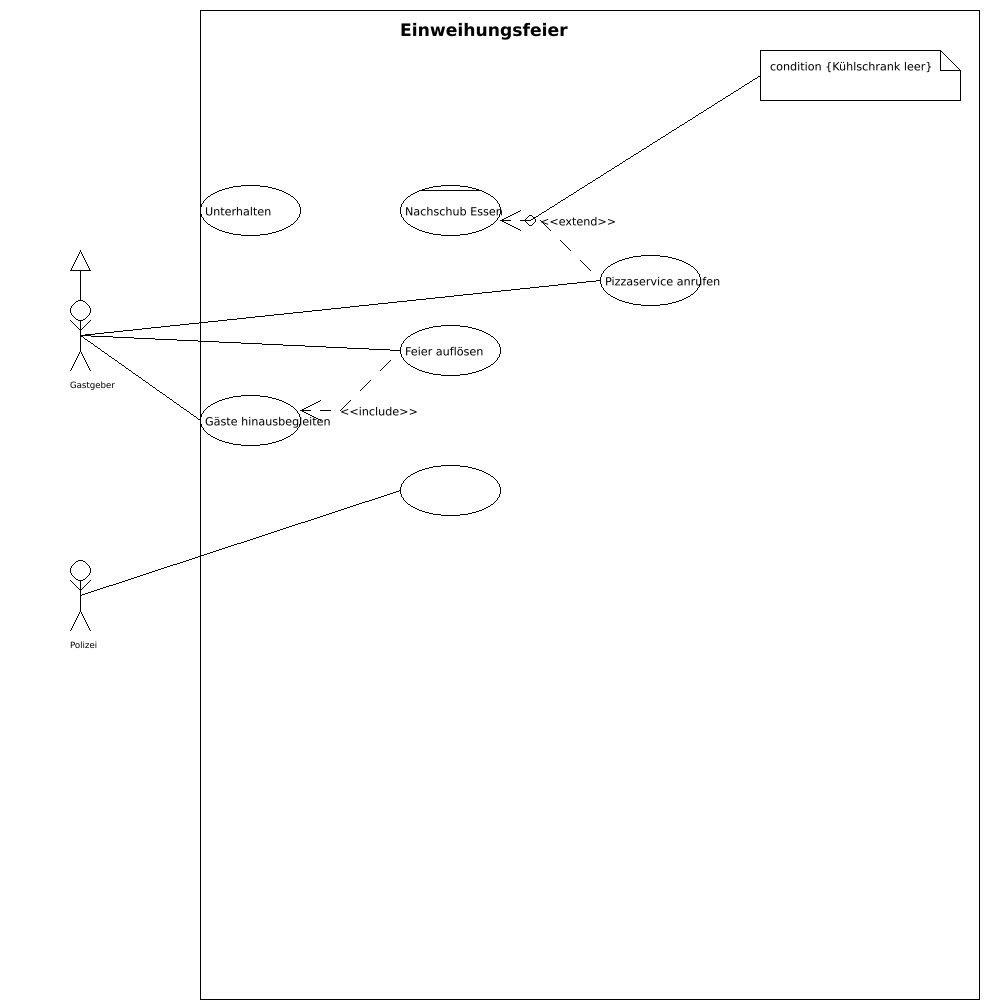
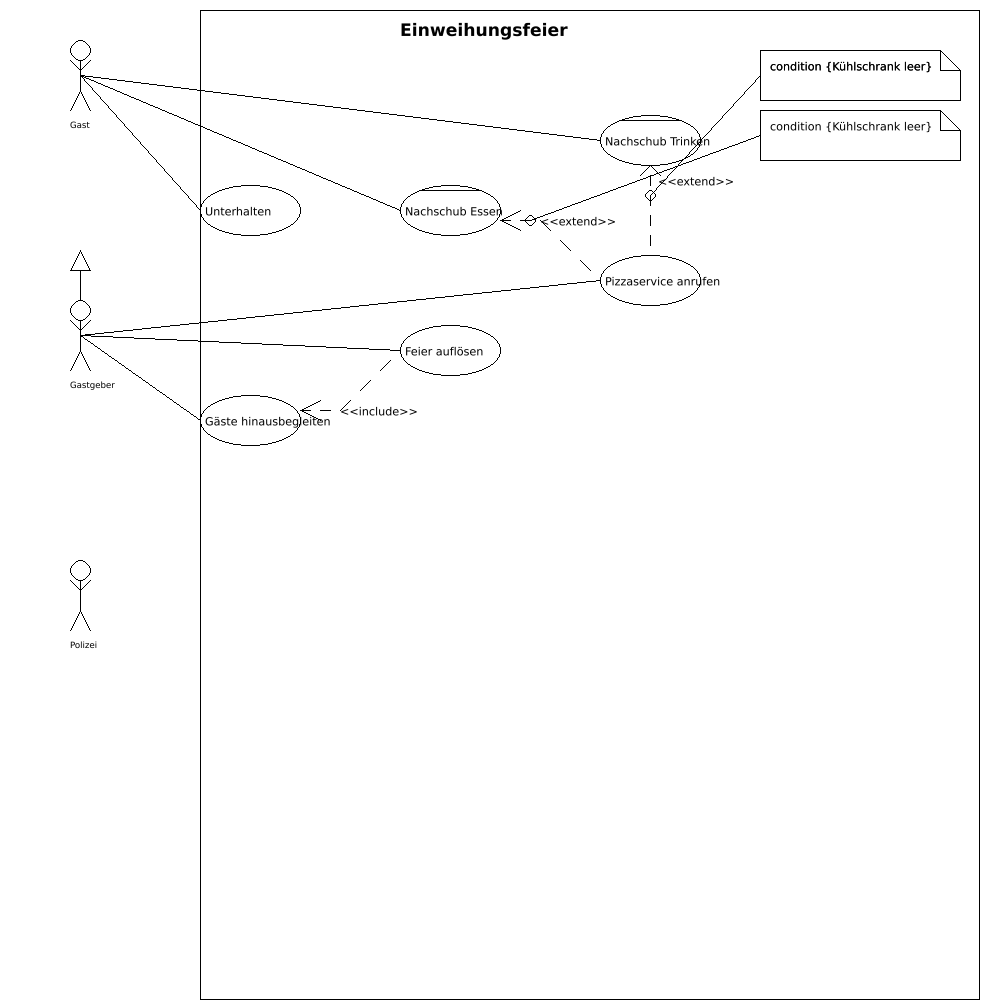
nicht benötigte Beziehungen werden entfernt, Template knopf für Use-Case Diagramm

Changed region(s): [[0.589, 0.124, 0.713, 0.186], [0.775, 0.124, 0.93, 0.155], [0.775, 0.062, 0.93, 0.093]]

diff --git a/src/decoder_usecase.rs b/src/decoder_usecase.rs
@@ -162,9 +162,45 @@ pub fn decode_use_case_diagram(diagram_input: String) -> (Option<UseCaseDiagramm
     if diagram_input_regex.is_match(diagram_input.as_ref()) {
         let use_case_diagram_comp: Vec<String> = diagram_input.split(&";".to_string()).map(|x| x.to_owned()).collect();
 
-        let uc_actors_result = decode_actors(use_case_diagram_comp[1].to_string());
+        let mut uc_actors_result = decode_actors(use_case_diagram_comp[1].to_string());
         let uc_use_cases_result = decode_use_cases(use_case_diagram_comp[2].to_string());
-        let uc_relations_result = decode_use_case_relations(use_case_diagram_comp[3].to_string());
+        let mut uc_relations_result = decode_use_case_relations(use_case_diagram_comp[3].to_string());
+
+        let mut case_id_vec = Vec::new();
+        for use_case in &uc_use_cases_result.0{
+            case_id_vec.push(use_case.id);
+        }
+
+        let mut deletList = Vec::new();
+        for i in 0..uc_actors_result.0.len() {
+            for j in 0..uc_actors_result.0[i].has_use_case.len(){
+                for  k in 0..uc_use_cases_result.0.len() {
+                    if &uc_actors_result.0[i].has_use_case[j] == &uc_use_cases_result.0[k].id {
+                        break;
+                    } else{
+                        if k == uc_use_cases_result.0.len()-1{
+                            deletList.push(j);
+                        }
+                    }
+                }
+            }
+            for num in (0..deletList.len()).rev(){
+                uc_actors_result.0[i].has_use_case.remove(deletList[num]);
+            }
+            deletList.clear();
+        }
+
+        for j in 0..uc_relations_result.0.len(){
+            if(!case_id_vec.contains(&uc_relations_result.0[j].to)) || (!case_id_vec.contains(&uc_relations_result.0[j].from)){
+                deletList.push(j);
+            }
+        }
+
+        for num in (0..deletList.len()).rev(){
+            uc_relations_result.0.remove(deletList[num]);
+        }
+        deletList.clear();
+
 
         let errors = [[uc_actors_result.1, uc_use_cases_result.1].join(""), uc_relations_result.1].join("");
         return (Some(UseCaseDiagramm::new(use_case_diagram_comp[0].to_string(), uc_actors_result.0,

diff --git a/src/gui.rs b/src/gui.rs
@@ -34,6 +34,7 @@ pub struct Content {
     pub input: TextBuffer,
     pub class_template_button: Button,
     pub relation_template_button: Button,
+    pub use_case_template_button: Button,
     pub noti_label: Label,
     pub start_button: Button,
 }
@@ -167,6 +168,14 @@ impl Content {
             input_clone.set_text([get_current_input(&input_clone), template].join("").as_ref());
         });
 
+        let use_case_template_button = Button::new_with_label("Neues Use-Case-Diagramm-Template");
+        let input_clone = input.clone();
+        use_case_template_button.connect_clicked(move |_ | {
+            let template = "UseCase~Name;\nAkteurID:AkteurName:erbtVon:usecase usecase usecase,;\n\
+            Use-CaseID:Use-CaseName:EP(extension point),;\nExtends:IDvon->IDzu:Bemerkung,".to_owned();
+            input_clone.set_text([get_current_input(&input_clone), template].join("").as_ref());
+        });
+
         let start_button = Button::new_with_label("Los");
         start_button.get_style_context().map(|c| c.add_class("suggested-action"));
 
@@ -190,6 +199,7 @@ impl Content {
         right_pane.set_border_width(5);
         right_pane.pack_start(&class_template_button, false, false, 0);
         right_pane.pack_start(&relation_template_button, false, false, 0);
+        right_pane.pack_start(&use_case_template_button, false, false, 12);
         right_pane.pack_start(&input_scrolled, true, true, 0);
         right_pane.pack_start(&noti_label, false, true, 0);
         right_pane.pack_start(&start_button, false, true, 0);
@@ -197,7 +207,7 @@ impl Content {
         container.pack1(&notebook.borrow_mut().notebook, true, true);
         container.pack2(&right_pane, true, true);
 
-        Content { container, notebook, input, class_template_button, relation_template_button, noti_label, start_button }
+        Content { container, notebook, input, class_template_button, relation_template_button, use_case_template_button, noti_label, start_button }
     }
 }
 

diff --git a/src/visuals_case.rs b/src/visuals_case.rs
@@ -212,15 +212,9 @@ fn draw_case_with_assoziation(image: image::ImageBuffer<Rgb<u8>, Vec<u8>>,stelle
     anfang = anfang + (130 * person);
     if side == "l" {
         draw_line_segment_mut(&mut image, (x_anfang as f32, anfang as f32), ((x_ellipse - 50) as f32, y_ellipse as f32), draw_color);
-        draw_hollow_ellipse_mut(&mut image, (x_ellipse as i32, y_ellipse as i32), 50 as i32, 25 as i32, draw_color);
-        draw_text_mut(&mut image, Rgb([0u8, 0u8, 0u8]), (x_anfang + 10) as u32, (anfang - 5) as u32, schrift, &font, von);
-        draw_text_mut(&mut image, Rgb([0u8, 0u8, 0u8]), (x_ellipse - 60) as u32, (y_ellipse) as u32, schrift, &font, nach);
     } else if side == "r" {
         x_anfang = 920;
         draw_line_segment_mut(&mut image, (x_anfang as f32, anfang as f32), ((x_ellipse + 50) as f32, y_ellipse as f32), draw_color);
-        draw_hollow_ellipse_mut(&mut image, (x_ellipse as i32, y_ellipse as i32), 50 as i32, 25 as i32, draw_color);
-        draw_text_mut(&mut image, Rgb([0u8, 0u8, 0u8]), (x_anfang - 10) as u32, (anfang - 5) as u32, schrift, &font, von);
-        draw_text_mut(&mut image, Rgb([0u8, 0u8, 0u8]), (x_ellipse + 60) as u32, (y_ellipse) as u32, schrift, &font, nach);
     }
     return (image);
 }
